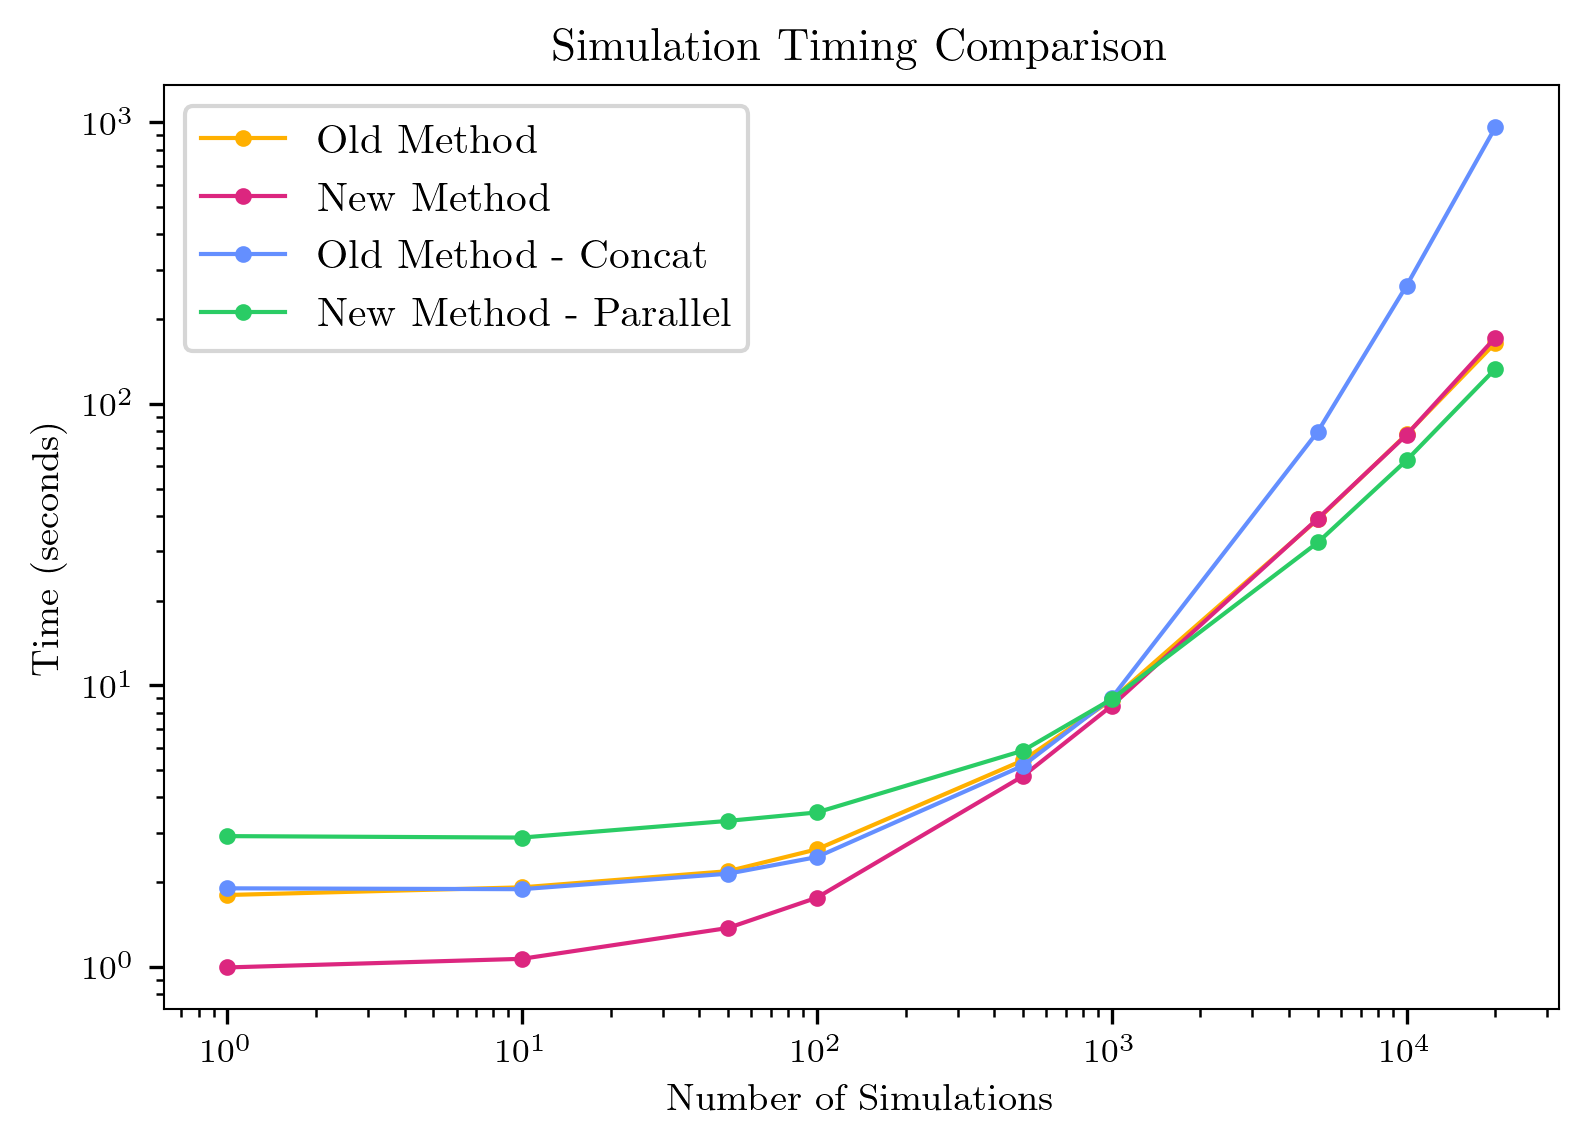
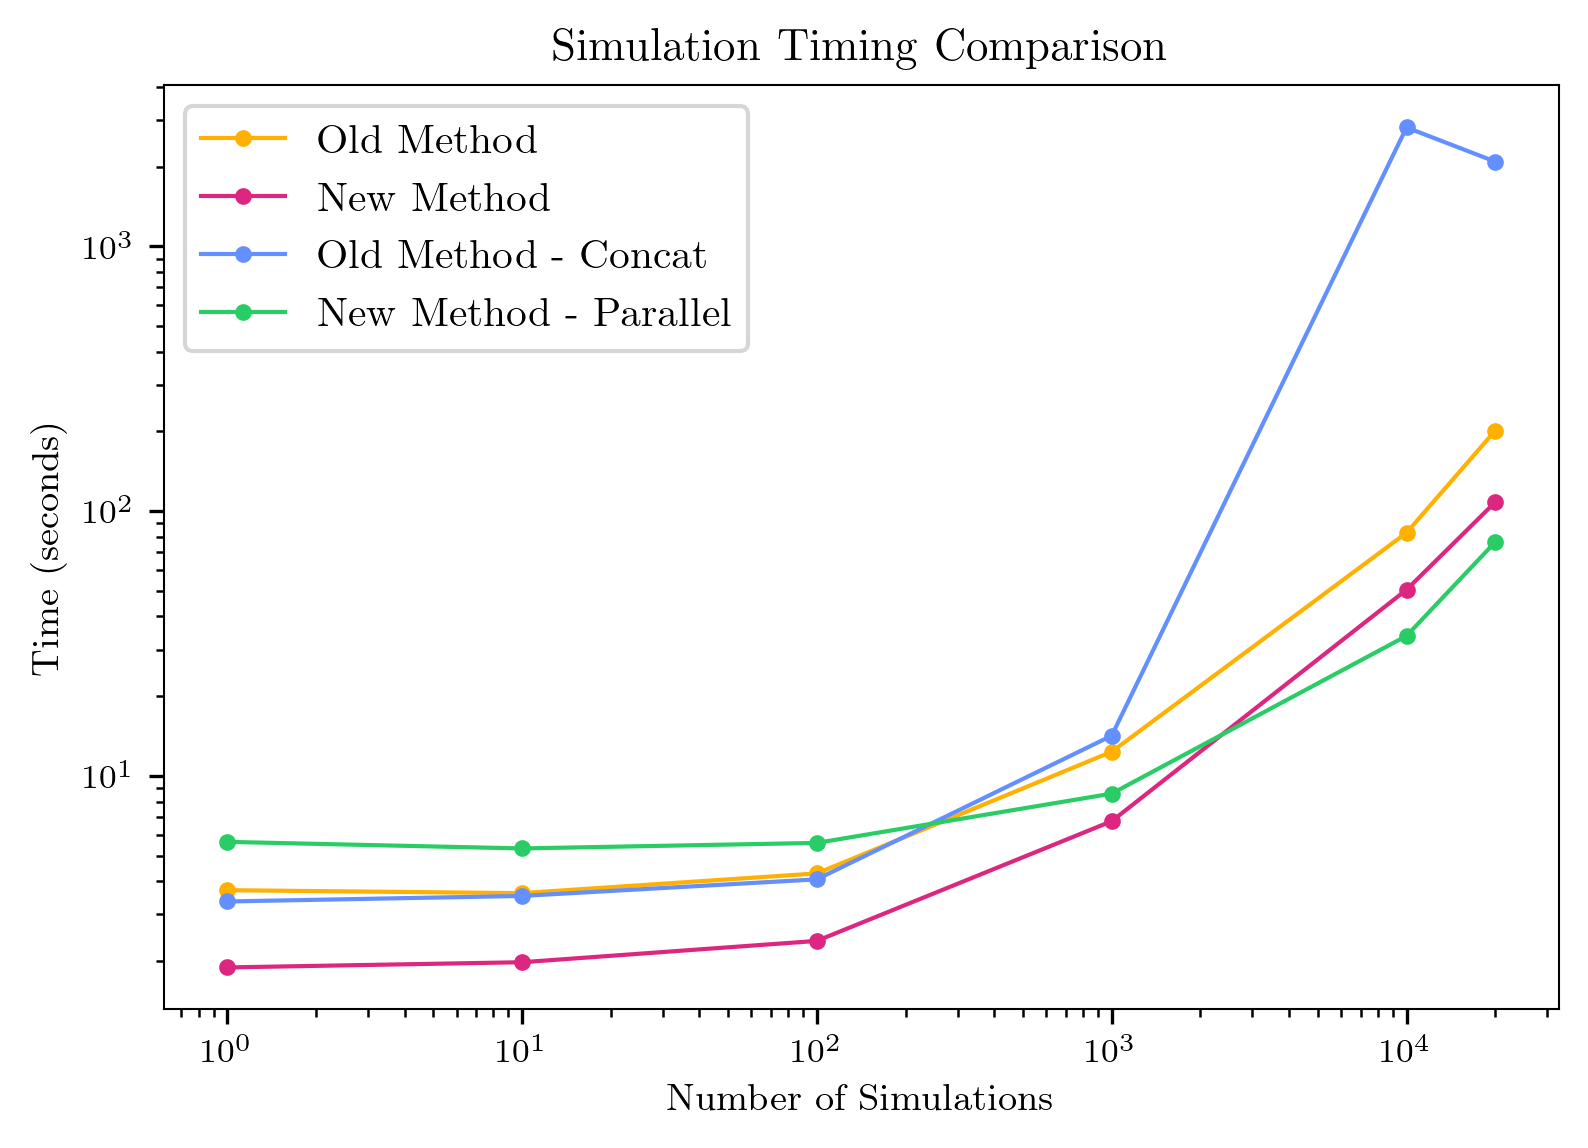
bug fix

diff --git a/src/test_regression.py b/src/test_regression.py
@@ -92,7 +92,7 @@ if __name__ == "__main__":
             m0_fraction=m0,
             L=L,
             scheme=scheme,
-            method=methods,
+            methods=methods,
             alpha=alpha,
             rng=rng1,
             metrics=metrics,
@@ -107,7 +107,7 @@ if __name__ == "__main__":
             m0_fraction=m0,
             L=L,
             scheme=scheme,
-            method=methods,
+            methods=methods,
             alpha=alpha,
             rng=rng2,
             metrics=metrics,
@@ -157,14 +157,13 @@ if __name__ == "__main__":
     for metric in metrics:
         metric = metric.name
         if not np.allclose(agg_new[metric], agg_old[metric], atol=tolerance):
-            print(f"Discrepancy found in metric {metric} between new and old simulation!")
-            print(np.max(np.abs(agg_new[metric] - agg_old[metric])))
+            print(f"Discrepancy of {np.max(np.abs(agg_new[metric] - agg_old[metric]))} found in metric {metric} between new and old simulation!")
             all_good = False
         if not np.allclose(agg_new_parallel[metric], agg_old[metric], atol=tolerance):
-            print(f"Discrepancy found in metric {metric} between new parallel and old simulation!")
+            print(f"Discrepancy of {np.max(np.abs(agg_new_parallel[metric] - agg_old[metric]))} found in metric {metric} between new parallel and old simulation!")
             all_good = False
         if not np.allclose(agg_old_concat[metric], agg_old[metric], atol=tolerance):
-            print(f"Discrepancy found in metric {metric} between old concatenated and old simulation!")
+            print(f"Discrepancy of {np.max(np.abs(agg_old_concat[metric] - agg_old[metric]))} found in metric {metric} between old concatenated and old simulation!")
             all_good = False
     if all_good:
         msg = f"All simulation methods produce consistent results up to {tolerance}."

diff --git a/src/helper_functions/methods.py b/src/helper_functions/methods.py
@@ -129,12 +129,12 @@ class BenjaminiHochberg(MultipleTesting):
     Examples
     --------
     >>> from methods import BonferroniHochbergCorrection
-    >>> bonf = BenjaminiHochberg()
+    >>> bh = BenjaminiHochberg()
     >>> pvals = np.array([0.01, 0.04, 0.03, 0.20])
     >>> alpha = 0.05
-    >>> bonf(pvals, alpha)
-    array([ True, False, True, False])
-    >>> bonf.name
+    >>> bh(pvals, alpha)
+    array([ True, False, False, False])
+    >>> bh.name
     'Benjamini-Hochberg Correction'
     """
 

diff --git a/src/run_simulation.py b/src/run_simulation.py
@@ -73,7 +73,7 @@ if __name__ == "__main__":
         m0_fraction=m0,
         L=L,
         scheme=scheme,
-        method=methods,
+        methods=methods,
         alpha=alpha,
         rng=rng,
         metrics=metrics,
